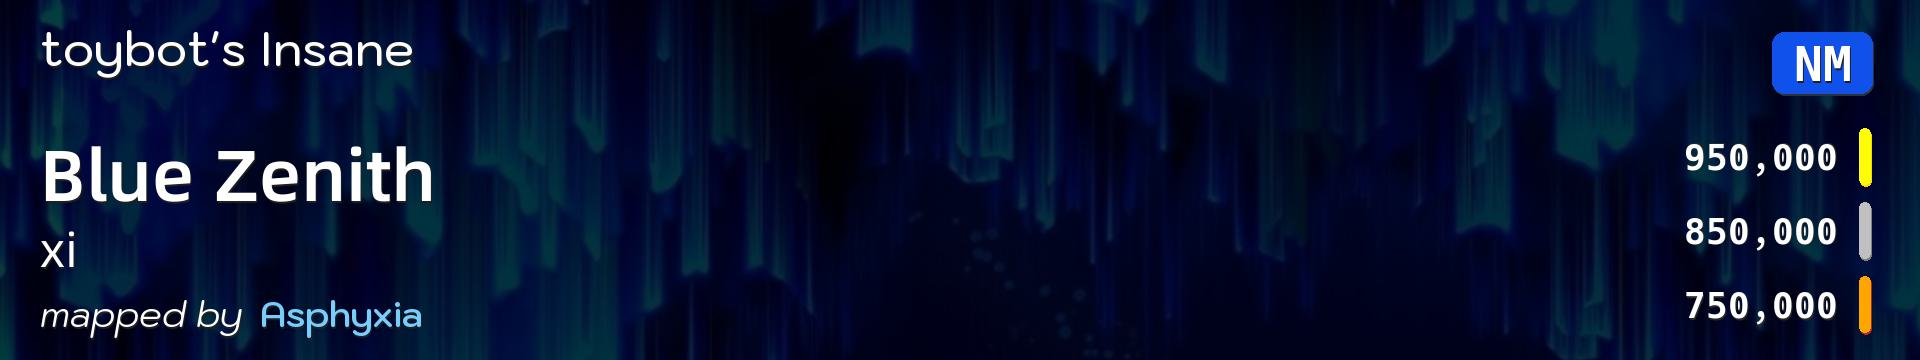
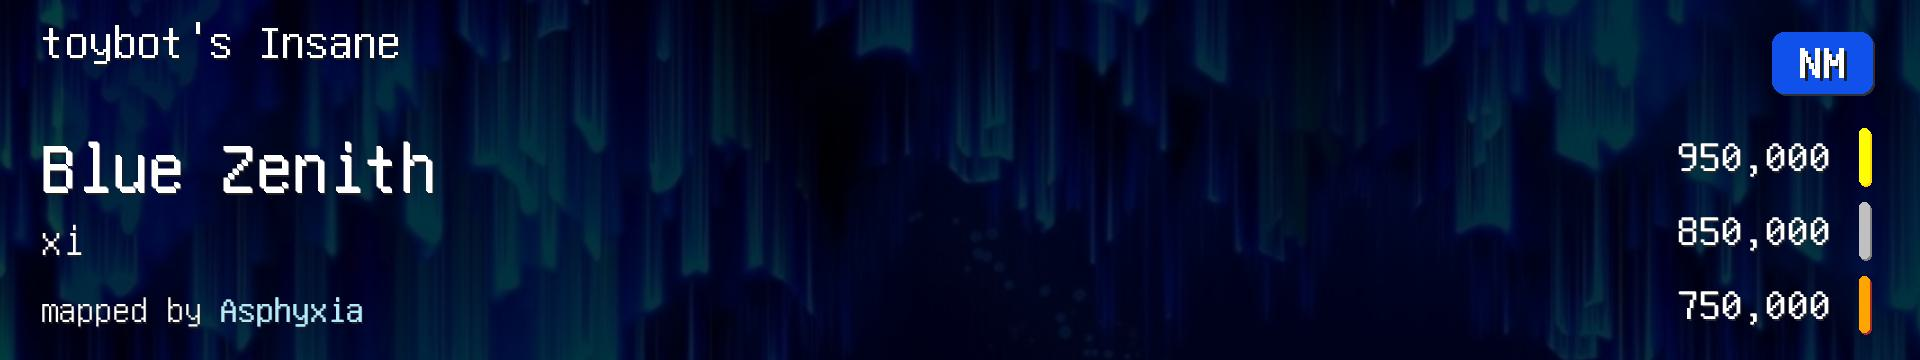
use unifont as global font

diff --git a/osu_playlist_generator.py b/osu_playlist_generator.py
@@ -2,23 +2,18 @@ from clayutil.futil import OsuPlaylist
 
 oauth = "../osu.properties"
 normal_playlists = [
-    "./playlists/2000pp过关.properties"
+    "./playlists/2000pp过关.properties",
 ]
 match_playlists = [
-    "./playlists/HSC3S1R1.properties"
+    "./playlists/HSC3S1R1.properties",
 ]
 o0 = OsuPlaylist(oauth)
-font_difficulty = "../Kodchasan-Medium.ttf"
-font_title = "../AlibabaPuHuiTi-3-75-SemiBold.ttf"
-font_artist = "../AlibabaPuHuiTi-3-55-Regular.ttf"
-font_mapped_by = "../Kodchasan-Italic.ttf"
-font_mapper = "../Kodchasan-SemiBold.ttf"
-font_mono = "../HackNerdFontMono-Bold.ttf"
+font = "../unifont-15.1.05.otf"
 for playlist in normal_playlists:
     o0.draw_target = True
     o0.draw_difficulty_table = False
-    o0.generate(playlist, font_difficulty, font_title, font_artist, font_mapped_by, font_mapper, font_mono)
+    o0.generate(playlist, font)
 for playlist in match_playlists:
     o0.draw_target = False
     o0.draw_difficulty_table = True
-    o0.generate(playlist, font_difficulty, font_title, font_artist, font_mapped_by, font_mapper, font_mono)
+    o0.generate(playlist, font)
